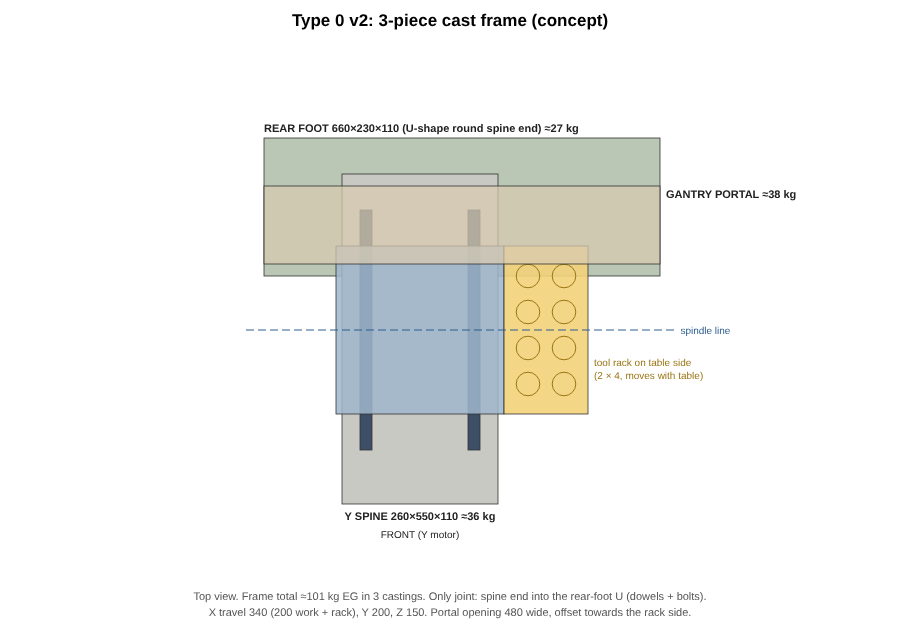
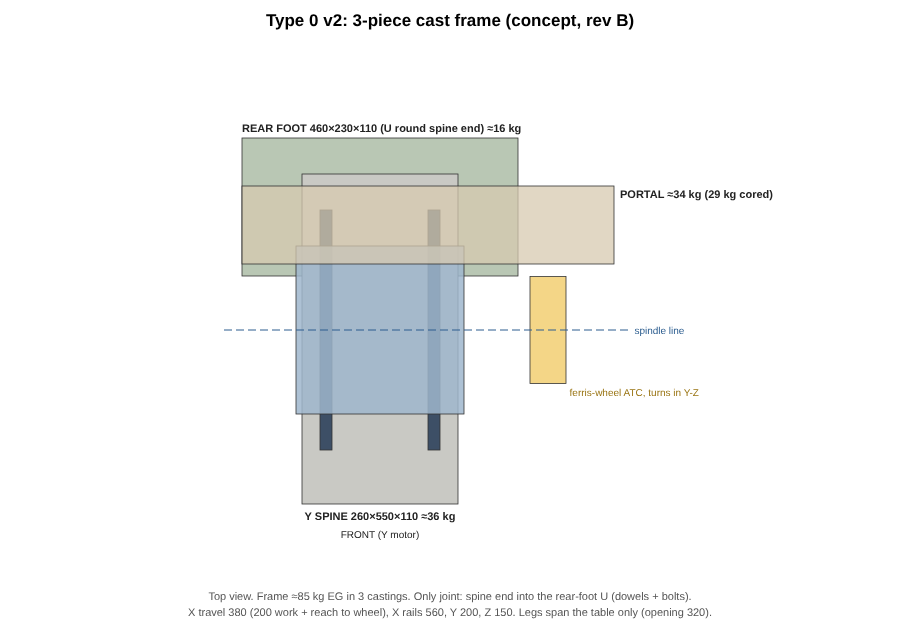
v2 concept rev B: legs span table, beam overhang, edge-on ferris-wheel ATC
Claude-Session: https://claude.ai/code/session_01LVLoxd2CNyp1vyTKkJiN47

diff --git a/cad/v2/sketch_3piece.py b/cad/v2/sketch_3piece.py
@@ -11,23 +11,28 @@ EG = 2300  # kg/m3
 P = dict(travel_x_work=200, travel_y=200, travel_z=150,
          table_x=280, table_y=280, table_t=25, block_h=30,
          y_rail_spacing=180,
-         rack_cols=2, rack_pitch=60, rack_gap=20,           # rack on table +X side
+         wheel_pockets=8, pocket_pitch=70, wheel_gap=20, wheel_t=60,   # ferris wheel beside +X leg, turns in the Y-Z plane (D-73)
+         leg_clear=20, saddle_w=180,
          h=110,                                              # spine/foot height
-         spine_w=260, upright_w=90, portal_d=130, beam_h=130,
+         spine_w=260, upright_w=70, portal_d=130, beam_h=130,
          beam_front=110, foot_d=220, foot_back_bar=60)
 
 def derive(p):
     d = {}
-    d["rack_w"] = p["rack_cols"] * p["rack_pitch"] + p["rack_gap"]
+    import math
     d["table_x0"], d["table_x1"] = -p["table_x"]/2, p["table_x"]/2
-    d["rack_x0"], d["rack_x1"] = d["table_x1"], d["table_x1"] + d["rack_w"]
-    d["open_x0"], d["open_x1"] = d["table_x0"] - 30, d["rack_x1"] + 30
-    d["portal_x0"], d["portal_x1"] = d["open_x0"] - p["upright_w"], d["open_x1"] + p["upright_w"]
+    d["open_x0"], d["open_x1"] = d["table_x0"] - p["leg_clear"], d["table_x1"] + p["leg_clear"]
+    d["leg_r_x1"] = d["open_x1"] + p["upright_w"]
+    d["wheel_d"] = p["wheel_pockets"] * p["pocket_pitch"] / math.pi
+    d["pickup_x"] = d["leg_r_x1"] + p["wheel_gap"] + p["wheel_t"]/2
+    d["spindle_x_max"] = d["pickup_x"]
+    d["portal_x0"] = d["open_x0"] - p["upright_w"]
+    d["portal_x1"] = d["pickup_x"] + p["saddle_w"]/2 + 20          # beam overhang past the right leg
     d["portal_w"] = d["portal_x1"] - d["portal_x0"]
     d["open_h"] = p["block_h"] + p["table_t"] + 100 + 70      # vise 100 + margin
     d["portal_h"] = d["open_h"] + p["beam_h"]
-    d["spindle_x_max"] = d["rack_x1"] - p["rack_pitch"]/2 - p["rack_gap"]/2
     d["travel_x_total"] = p["travel_x_work"]/2 + d["spindle_x_max"]
+    d["x_rail_len"] = d["travel_x_total"] + p["saddle_w"]
     t_min, t_max = -p["travel_y"]/2, p["travel_y"]/2
     d["spine_y0"] = t_min - p["table_y"]/2 - 50
     d["portal_y0"] = p["beam_front"]; d["portal_y1"] = p["beam_front"] + p["portal_d"]
@@ -36,9 +41,16 @@ def derive(p):
     # masses
     h = p["h"]/1000
     spine = p["spine_w"]/1000 * (d["spine_y1"]-d["spine_y0"])/1000 * h
-    foot = d["portal_w"]/1000*(d["foot_y1"]-d["foot_y0"])/1000*h - p["spine_w"]/1000*(d["spine_y1"]-d["foot_y0"])/1000*h
-    portal = d["portal_w"]/1000*p["portal_d"]/1000*d["portal_h"]/1000 - (d["open_x1"]-d["open_x0"])/1000*p["portal_d"]/1000*d["open_h"]/1000
+    foot_w = d["leg_r_x1"] - d["portal_x0"]
+    d["foot_w"] = foot_w
+    foot = foot_w/1000*(d["foot_y1"]-d["foot_y0"])/1000*h - p["spine_w"]/1000*(d["spine_y1"]-d["foot_y0"])/1000*h
+    legs = 2 * p["upright_w"]/1000 * p["portal_d"]/1000 * d["open_h"]/1000
+    beam = d["portal_w"]/1000 * p["portal_d"]/1000 * p["beam_h"]/1000
+    cores = 2 * math.pi * 0.025**2 * (d["portal_w"]/1000 - 0.12)      # 2 x 50 mm capped PVC cores (D-74)
+    portal = legs + beam
+    d["portal_cored"] = (portal - cores) * EG
     d["kg"] = {"spine": spine*EG, "foot": foot*EG, "portal": portal*EG}
+    import math as _m
     d["kg"]["total"] = sum(d["kg"].values())
     return d
 
@@ -57,52 +69,53 @@ def T(x, y, s, a="middle", sz=11, c="#222", b=False):
 S = 0.6
 def top():
     p, d = P, D
-    W, H = 900, 640; ox, oy = 420, 330
+    W, H = 900, 640; ox, oy = 380, 330
     X = lambda x: ox + x*S; Y = lambda y: oy - y*S
     b = ""
-    b += R(X(d["portal_x0"]), Y(d["foot_y1"]), X(d["portal_x1"]), Y(d["foot_y0"]), COL["foot"])
+    b += R(X(d["portal_x0"]), Y(d["foot_y1"]), X(d["leg_r_x1"]), Y(d["foot_y0"]), COL["foot"])
     b += R(X(-p["spine_w"]/2), Y(d["spine_y1"]), X(p["spine_w"]/2), Y(d["spine_y0"]), COL["spine"])
-    for s in (-1, 1):
-        b += R(X(s*p["y_rail_spacing"]/2-10), Y(200), X(s*p["y_rail_spacing"]/2+10), Y(-200), COL["rail"])
+    for s_ in (-1, 1):
+        b += R(X(s_*p["y_rail_spacing"]/2-10), Y(200), X(s_*p["y_rail_spacing"]/2+10), Y(-200), COL["rail"])
     b += R(X(d["table_x0"]), Y(p["table_y"]/2), X(d["table_x1"]), Y(-p["table_y"]/2), COL["table"], 0.85)
-    b += R(X(d["rack_x0"]), Y(p["table_y"]/2), X(d["rack_x1"]), Y(-p["table_y"]/2), COL["rack"], 0.9)
-    for c in range(p["rack_cols"]):
-        for r in range(4):
-            cx = d["rack_x0"] + p["rack_gap"] + p["rack_pitch"]/2 + c*p["rack_pitch"] - 10
-            cy = -90 + r*p["rack_pitch"]
-            b += f'<circle cx="{X(cx):.1f}" cy="{Y(cy):.1f}" r="{14*S*1.4:.1f}" fill="none" stroke="#9a7514"/>'
     b += R(X(d["portal_x0"]), Y(d["portal_y1"]), X(d["portal_x1"]), Y(d["portal_y0"]), COL["portal"], 0.75)
+    b += R(X(d["pickup_x"]-p["wheel_t"]/2), Y(d["wheel_d"]/2), X(d["pickup_x"]+p["wheel_t"]/2), Y(-d["wheel_d"]/2), COL["rack"], 0.9)
     b += f'<line x1="{X(d["portal_x0"]-30)}" y1="{Y(0)}" x2="{X(d["portal_x1"]+30)}" y2="{Y(0)}" stroke="#2c5d8f" stroke-dasharray="8 4"/>'
     b += T(X(d["portal_x1"]+34), Y(0)+4, "spindle line", "start", 10, "#2c5d8f")
     b += T(X(0), Y(d["spine_y0"])+16, f'Y SPINE {p["spine_w"]}×{d["spine_y1"]-d["spine_y0"]:.0f}×{p["h"]}  ≈{d["kg"]["spine"]:.0f} kg', "middle", 11, "#222", True)
-    b += T(X(d["portal_x0"]), Y(d["foot_y1"])-6, f'REAR FOOT {d["portal_w"]:.0f}×{d["foot_y1"]-d["foot_y0"]:.0f}×{p["h"]} (U-shape round spine end) ≈{d["kg"]["foot"]:.0f} kg', "start", 11, "#222", True)
-    b += T(X(d["portal_x1"])+6, Y(d["portal_y1"])+12, f'GANTRY PORTAL ≈{d["kg"]["portal"]:.0f} kg', "start", 11, "#222", True)
-    b += T(X(d["rack_x1"])+6, Y(-60), "tool rack on table side", "start", 10, "#9a7514")
-    b += T(X(d["rack_x1"])+6, Y(-60)+13, "(2 × 4, moves with table)", "start", 10, "#9a7514")
+    b += T(X(d["portal_x0"]), Y(d["foot_y1"])-6, f'REAR FOOT {d["foot_w"]:.0f}×{d["foot_y1"]-d["foot_y0"]:.0f}×{p["h"]} (U round spine end) ≈{d["kg"]["foot"]:.0f} kg', "start", 11, "#222", True)
+    b += T(X(d["portal_x1"])+6, Y(d["portal_y1"])+12, f'PORTAL ≈{d["kg"]["portal"]:.0f} kg ({d["portal_cored"]:.0f} kg cored)', "start", 11, "#222", True)
+    b += T(X(d["pickup_x"]+p["wheel_t"]/2+6), Y(-d["wheel_d"]/2)+12, "ferris-wheel ATC, turns in Y-Z", "start", 10, "#9a7514")
     b += T(X(0), Y(d["spine_y0"])+34, "FRONT (Y motor)", "middle", 10)
-    b += T(W/2, H-40, f'Top view. Frame total ≈{d["kg"]["total"]:.0f} kg EG in 3 castings. Only joint: spine end into the rear-foot U (dowels + bolts).', "middle", 11, "#555")
-    b += T(W/2, H-24, f'X travel {d["travel_x_total"]:.0f} (200 work + rack), Y {p["travel_y"]}, Z {p["travel_z"]}. Portal opening {d["open_x1"]-d["open_x0"]:.0f} wide, offset towards the rack side.', "middle", 11, "#555")
-    svg("sketch_top.svg", W, H, "Type 0 v2: 3-piece cast frame (concept)", b)
+    b += T(W/2, H-40, f'Top view. Frame ≈{d["kg"]["total"]:.0f} kg EG in 3 castings. Only joint: spine end into the rear-foot U (dowels + bolts).', "middle", 11, "#555")
+    b += T(W/2, H-24, f'X travel {d["travel_x_total"]:.0f} (200 work + reach to wheel), X rails {d["x_rail_len"]:.0f}, Y {p["travel_y"]}, Z {p["travel_z"]}. Legs span the table only (opening {d["open_x1"]-d["open_x0"]:.0f}).', "middle", 11, "#555")
+    svg("sketch_top.svg", W, H, "Type 0 v2: 3-piece cast frame (concept, rev B)", b)
 
 def front():
     p, d = P, D
-    W, H = 900, 470; ox, oy = 420, 360
+    W, H = 900, 470; ox, oy = 380, 360
     X = lambda x: ox + x*S; Z = lambda z: oy - z*S
-    b = R(X(d["portal_x0"]), Z(0), X(d["portal_x1"]), Z(-p["h"]), COL["foot"])
+    b = R(X(d["portal_x0"]), Z(0), X(d["leg_r_x1"]), Z(-p["h"]), COL["foot"])
     b += R(X(-p["spine_w"]/2), Z(0), X(p["spine_w"]/2), Z(-p["h"]), COL["spine"], 0.9, "4 3")
-    for s in (-1, 1):
-        x0, x1 = (d["portal_x0"], d["open_x0"]) if s < 0 else (d["open_x1"], d["portal_x1"])
-        b += R(X(x0), Z(d["open_h"]), X(x1), Z(0), COL["portal"])
-        b += R(X(s*p["y_rail_spacing"]/2-10), Z(17.5), X(s*p["y_rail_spacing"]/2+10), Z(0), COL["rail"])
+    b += R(X(d["portal_x0"]), Z(d["open_h"]), X(d["open_x0"]), Z(0), COL["portal"])
+    b += R(X(d["open_x1"]), Z(d["open_h"]), X(d["leg_r_x1"]), Z(0), COL["portal"])
     b += R(X(d["portal_x0"]), Z(d["portal_h"]), X(d["portal_x1"]), Z(d["open_h"]), COL["portal"])
+    for xc in (d["portal_x0"]+60, d["portal_x1"]-60):
+        pass
+    b += f'<line x1="{X(d["portal_x0"]+60)}" y1="{Z(d["open_h"]+p["beam_h"]/2)}" x2="{X(d["portal_x1"]-60)}" y2="{Z(d["open_h"]+p["beam_h"]/2)}" stroke="#8a6d3b" stroke-dasharray="6 3"/>'
+    for s_ in (-1, 1):
+        b += R(X(s_*p["y_rail_spacing"]/2-10), Z(17.5), X(s_*p["y_rail_spacing"]/2+10), Z(0), COL["rail"])
     b += R(X(d["table_x0"]), Z(p["block_h"]+p["table_t"]), X(d["table_x1"]), Z(p["block_h"]), COL["table"])
-    b += R(X(d["rack_x0"]), Z(p["block_h"]+p["table_t"]+60), X(d["rack_x1"]), Z(p["block_h"]+p["table_t"]+50), COL["rack"])
-    b += T(X(0), Z(-p["h"])+16, "spine (dashed) inside the rear foot U", "middle", 10)
+    fork_z = p["block_h"] + p["table_t"] + 40
+    cz = fork_z - d["wheel_d"]/2
+    b += R(X(d["pickup_x"]-p["wheel_t"]/2), Z(fork_z+20), X(d["pickup_x"]+p["wheel_t"]/2), Z(fork_z-d["wheel_d"]), COL["rack"], 0.8)
+    b += T(X(d["pickup_x"]+p["wheel_t"]/2+6), Z(fork_z-d["wheel_d"]/2), f'wheel Ø{d["wheel_d"]:.0f} edge-on', "start", 10, "#9a7514")
+    b += T(X(d["pickup_x"]+p["wheel_t"]/2+6), Z(fork_z-d["wheel_d"]/2)-13, '8 pockets, top pocket = pickup', "start", 10, "#9a7514")
     b += T(X((d["open_x0"]+d["open_x1"])/2), Z(d["open_h"])+14, f'opening {d["open_x1"]-d["open_x0"]:.0f} × {d["open_h"]:.0f}', "middle", 11, "#c0392b")
-    b += T(X(0), Z(d["portal_h"])-8, f'portal {d["portal_w"]:.0f} W × {d["portal_h"]:.0f} H × {p["portal_d"]} D', "middle", 11, "#c0392b")
-    svg("sketch_front.svg", W, H, "Type 0 v2: front view (concept)", b)
+    b += T(X((d["portal_x0"]+d["portal_x1"])/2), Z(d["portal_h"])-8, f'portal {d["portal_w"]:.0f} W × {d["portal_h"]:.0f} H × {p["portal_d"]} D, beam overhang {d["portal_x1"]-d["leg_r_x1"]:.0f}', "middle", 11, "#c0392b")
+    b += T(X(0), Z(-p["h"])+16, "spine (dashed) inside the rear foot U. Dashed line in beam: capped PVC cores", "middle", 10)
+    svg("sketch_front.svg", W, H, "Type 0 v2: front view (concept, rev B)", b)
 
 if __name__ == "__main__":
     top(); front()
     for k, v in D["kg"].items(): print(f"{k}: {v:.1f} kg")
-    print("portal_w", D["portal_w"], "open", D["open_x1"]-D["open_x0"], "x travel", D["travel_x_total"], "spine len", D["spine_y1"]-D["spine_y0"])
+    print("portal_cored", round(D["portal_cored"],1), "portal_w", D["portal_w"], "open", D["open_x1"]-D["open_x0"], "x travel", round(D["travel_x_total"]), "x rails", round(D["x_rail_len"]), "wheel d", round(D["wheel_d"]), "overhang", round(D["portal_x1"]-D["leg_r_x1"]))

diff --git a/docs/decisions.md b/docs/decisions.md
@@ -74,3 +74,5 @@
 | D-70 | Phase 1 spindle from a known maker only: Jianken JGD-80 2.2 kW ER20, quoted together with the ATC spindle. Replaces the Wanhongcnc choice in D-69 | Unknown makers risk poor runout |
 | D-71 | **Scale-down (v2):** upstairs flat, pieces ≤ 40 kg, total about 150 kg on anti-vibration feet, work area 200 × 200 × 150, coolant only inside an enclosure, timber bench made by the owner. Frame stays cast epoxy granite (no welded frame: weld stress) | Owner must be able to move out and keep it indoors |
 | D-72 | If ATC is added, the rack (2 × 4) bolts to the table's +X side: table Y travel selects the pocket, spindle X travel extends by about 140 mm. No extra Y travel | Keeps the Y spine short and under 40 kg |
+| D-73 | Portal legs span only the table (opening 320). Beam overhangs about 160 mm past the right leg. The ATC (if added) is an independent **ferris wheel**, 8 pockets, about Ø178, turning in the Y-Z plane beside the right leg, with the top pocket as the pickup. Replaces D-72 | Narrower, lighter portal. No rack on the table. X travel about 380 (200 work + reach) |
+| D-74 | If the portal is over 40 kg, use capped PVC pipe cores in the beam (2 × 50 mm: about 34 → about 29 kg) | Documented DIY method (owner choice) |

diff --git a/docs/scale-down-options.md b/docs/scale-down-options.md
@@ -39,3 +39,15 @@ Welding locks in stress. Proposed **3-piece cast layout** (concept sketch: `cad/
 | **Total** | | **about 101 kg** |
 
 Rack on the table's +X side (D-72): X travel 340 (200 work + rack), portal opening offset towards the rack side.
+
+## Rev B (owner feedback, D-73)
+Legs span only the table. Beam overhangs past the right leg. Ferris-wheel ATC beside the leg (edge-on, turns in Y-Z).
+
+| Casting | Size (mm) | Mass |
+|---|---|---|
+| Y spine | 260 × 550 × 110 | about 36 kg |
+| Rear foot (U round spine end, under the legs only) | 460 × 230 × 110 | about 16 kg |
+| Gantry portal | 620 W × 355 H × 130 D, opening 320 × 225, overhang 160 | about 34 kg (about 29 kg with PVC cores) |
+| **Total** | | **about 85 kg** |
+
+X travel about 380 (X rails about 560), Y 200, Z 150. Wheel about Ø178, 8 pockets.
